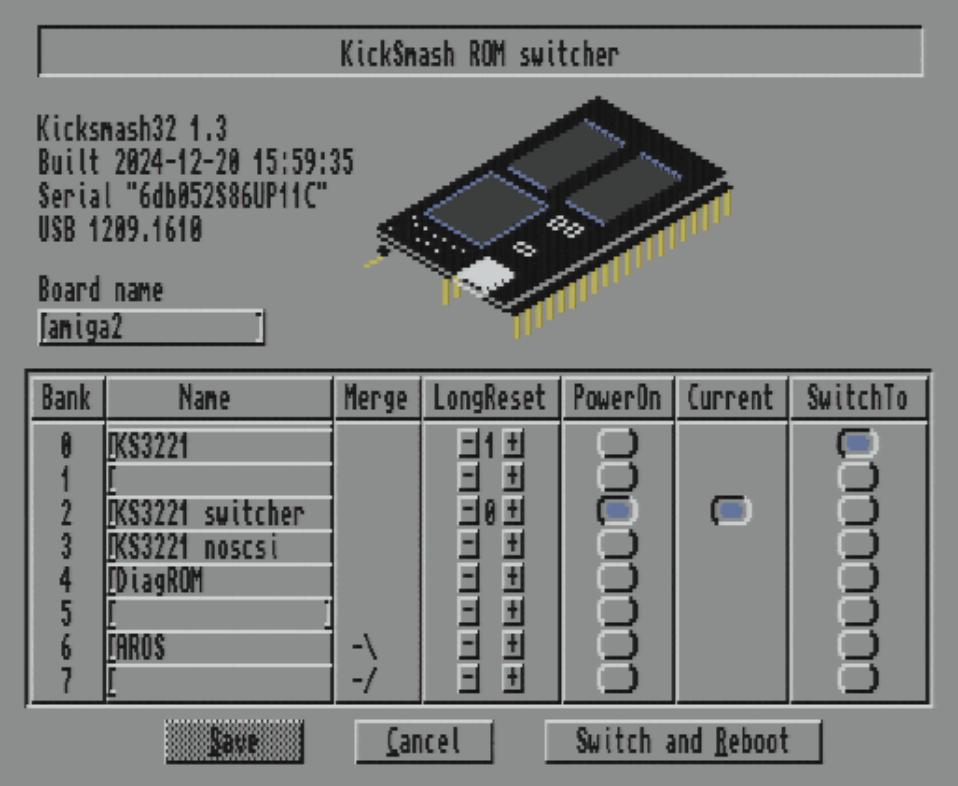
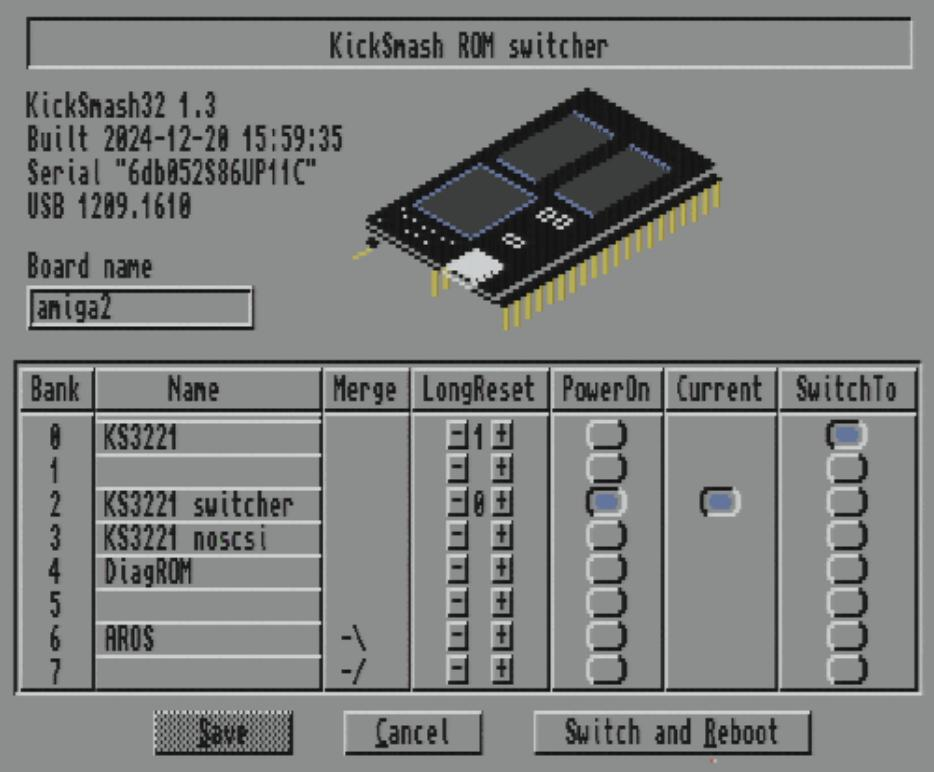
romswitcher - Minor fix to text input gadget appearance

Changed region(s): [[0.0, 0.0, 0.9936, 0.9948], [0.1552, 0.9016, 0.3726, 0.9948]]

diff --git a/amiga/romswitch.c b/amiga/romswitch.c
@@ -110,7 +110,7 @@ const struct Resident resident = {
     rom_main               // rt_Init - pointer to init code
 };
 
-const char RomID[]   = "romswitch 0.5 (2024-12-22)\r\n";
+const char RomID[]   = "romswitch 0.6 (2024-12-26)\r\n";
 
 struct GfxBase *GfxBase;
 struct Library *GadToolsBase;
@@ -852,7 +852,7 @@ show_banks(void)
           x + width - banktable_widths[col - 1] * 8 + 6, y + 10, FALSE);
 
     SetAPen(rp, 1);
-    box(x, y, width + 6, 19 + ROM_BANKS * 9, GTBB_Recessed);
+    box(x, y, width + 6, 18 + ROM_BANKS * 9, GTBB_Recessed);
     y += 2;
     xoff = x + 3;
     bank_box_top = y + 14;
@@ -860,18 +860,18 @@ show_banks(void)
     bank_box_left = xoff;
     bank_box_right = xoff + width;
     for (col = 0; col < ARRAY_SIZE(banktable_widths); col++) {
-        width = banktable_widths[col] * 8 + 8;
+        uint pwidth = banktable_widths[col] * 8 + 8;
         banktable_pos[col] = xoff;
 
         /* Title box */
-        box(xoff, y, width, 12, TAG_IGNORE);
+        box(xoff, y, pwidth, 12, TAG_IGNORE);
 
         /* Column box */
-        box(xoff, y + 12, width, 4 + ROM_BANKS * 9, TAG_IGNORE);
+        box(xoff, y + 12, pwidth, 3 + ROM_BANKS * 9, TAG_IGNORE);
 
         show_bank_table_column(col);
 
-        xoff += width;
+        xoff += pwidth;
     }
 }
 
@@ -976,7 +976,6 @@ update_switchto(int incdec)
 
     if (update_switch_box())
         RefreshGList(gadget_switchto_pre, window, NULL, -1);
-//      RefreshGList(gadgets, window, NULL, -1);
 }
 
 /*
@@ -1031,13 +1030,13 @@ static void
 show_id(void)
 {
     uint x = 40;
-    uint y = 21;
+    uint y = 17;
     char buf[40];
     get_id(&id);
     memcpy(&id_saved, &id, sizeof (id_saved));
 
     SetAPen(&screen->RastPort, 1);  // Black
-    sprintf(buf, "Kicksmash%u %u.%u",
+    sprintf(buf, "KickSmash%u %u.%u",
             (id.si_mode == 0) ? 32 : 16,
             id.si_ks_version[0], id.si_ks_version[1]);
     Print(buf, x, y += 9, 0);
@@ -1148,6 +1147,25 @@ string_hook_entry(struct Hook *hook asm("a0"), struct SGWork *sgw asm("a2"),
     return (rc);
 }
 #endif
+
+static void
+cleanup_bank_name_gadgets(void)
+{
+    struct RastPort *rp = &screen->RastPort;
+    uint bank;
+    uint y = bank_box_top + 1;
+    uint x1 = banktable_pos[1] + 2;
+    uint x2 = x1 + banktable_widths[1] * 8;
+
+    SetAPen(rp, 0);
+    for (bank = 0; bank < ROM_BANKS; bank++) {
+        sbox(x1, y, 1, 7);
+        sbox(x1 + 2, y, 0, 7);
+        sbox(x2, y, 1, 7);
+        sbox(x2 + 2, y, 0, 7);
+        y += 9;
+    }
+}
 
 /*
  * draw_page
@@ -1262,9 +1280,9 @@ draw_page(void)
 
     /* KickSmash board name */
     ng.ng_LeftEdge   = 40;
-    ng.ng_TopEdge    = 76;
+    ng.ng_TopEdge    = 72;
     ng.ng_Width      = 8 * 18;
-    ng.ng_Height     = 10;
+    ng.ng_Height     = 12;
     ng.ng_GadgetText = NULL;
     ng.ng_GadgetID   = ID_BOARD_NAME;
     sptr = id.si_name;  // work around odd compiler bug
@@ -1430,6 +1448,7 @@ draw_page(void)
     AddGList(window, gadgets, -1, -1, NULL);
     RefreshGList(gadgets, window, NULL, -1);
     GT_RefreshWindow(window, NULL);
+    cleanup_bank_name_gadgets();
 }
 
 /*
